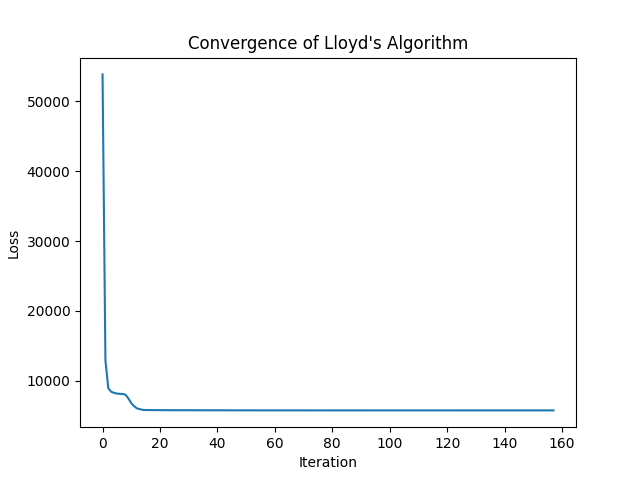
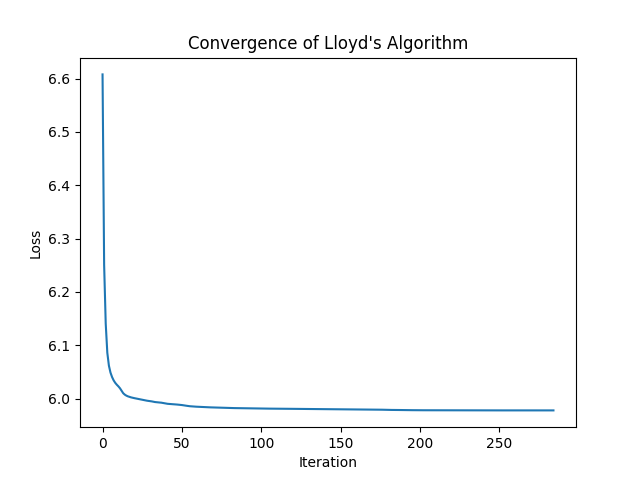
Added LSHLloyd.py for LSH. Changed main.py (added standardscalar, structured code).

diff --git a/LSHLloyd.py b/LSHLloyd.py
@@ -1,0 +1,137 @@
+import numpy as np
+import time
+from sklearn.metrics import pairwise_distances
+from KMeans import KMeans
+from tqdm import tqdm
+
+class LloydsAlgorithmLSH(KMeans):
+    def __init__(self, k, data, true_labels, num_hash_tables=2, num_hashes_per_table=3, bucket_size=1.0, max_iter=100, debug=False):
+        super().__init__(k, data, true_labels, max_iter)
+        self.distances = None
+        self.converged = False
+        self.time = 0
+        self.num_distance_calculations = 0
+        self.num_hash_tables = num_hash_tables
+        self.num_hashes_per_table = num_hashes_per_table
+        self.bucket_size = bucket_size
+        self.hash_tables = self._generate_hash_tables()
+        self.hash_buckets = self._hash_data()
+        self.centroid_hash_buckets = [None] * self.num_hash_tables
+        self.debug = debug
+
+    def _generate_hash_functions(self):
+        hash_functions = []
+        for _ in range(self.num_hashes_per_table):
+            a = np.random.normal(size=self.data.shape[1])
+            b = np.random.uniform(0, self.bucket_size)
+            hash_functions.append((a, b))
+        return hash_functions
+
+    def _generate_hash_tables(self):
+        hash_tables = []
+        for _ in range(self.num_hash_tables):
+            hash_tables.append(self._generate_hash_functions())
+        return hash_tables
+
+    def _hash_point(self, point, hash_functions):
+        hash_values = []
+        for a, b in hash_functions:
+            hash_value = np.floor((np.dot(point, a) + b) / self.bucket_size)
+            hash_values.append(hash_value)
+        return tuple(hash_values)
+
+    def _hash_data(self):
+        hash_buckets = [{} for _ in range(self.num_hash_tables)]
+        for i, point in enumerate(self.data):
+            for j, hash_functions in enumerate(self.hash_tables):
+                hash_values = self._hash_point(point, hash_functions)
+                if hash_values not in hash_buckets[j]:
+                    hash_buckets[j][hash_values] = []
+                hash_buckets[j][hash_values].append(i)
+        return hash_buckets
+
+    def _hash_centroids(self):
+        self.centroid_hash_buckets = [{} for _ in range(self.num_hash_tables)]
+        for j, hash_functions in enumerate(self.hash_tables):
+            for i, centroid in enumerate(self.centroids):
+                hash_values = self._hash_point(centroid, hash_functions)
+                if hash_values not in self.centroid_hash_buckets[j]:
+                    self.centroid_hash_buckets[j][hash_values] = []
+                self.centroid_hash_buckets[j][hash_values].append(i)
+
+    def initialize_centroids(self):
+        return self.data[:self.k]
+
+    def update_centroids(self):
+        for i in range(self.k):
+            if len(self.clusters[i]) > 0:
+                self.centroids[i] = np.mean(self.clusters[i], axis=0)
+            else:
+                # Randomly reinitialize centroid if cluster is empty
+                self.centroids[i] = self.data[np.random.choice(self.data.shape[0])]
+                if(self.debug):
+                    print(f"Cluster {i} is empty. Reinitializing centroid to {self.centroids[i]}")
+
+    def assign_clusters(self):
+        temp_clusters = self.clusters
+        self.clusters = {k: [] for k in range(self.k)}
+        assigned_points = set()
+
+        # First assign points from hash buckets
+        for j in range(self.num_hash_tables):
+            for bucket, centroids in self.centroid_hash_buckets[j].items():
+                if bucket in self.hash_buckets[j]:
+                    for idx in self.hash_buckets[j][bucket]:
+                        if idx not in assigned_points:
+                            cluster = centroids[0]
+                            self.labels[idx] = int(cluster)
+                            self.clusters[cluster].append(self.data[idx])
+                            assigned_points.add(idx)
+        if self.debug:
+            print(f"Assigned points from hash buckets: {len(assigned_points)} out of {len(self.data)}")
+
+        # Handle remaining points by distance
+        remaining_points = list(set(range(self.data.shape[0])) - assigned_points)
+        if remaining_points:
+            self.distances = pairwise_distances(self.data[remaining_points], self.centroids)
+            for i, idx in enumerate(remaining_points):
+                cluster = np.argmin(self.distances[i])
+                self.labels[idx] = int(cluster)
+                self.clusters[cluster].append(self.data[idx])
+                assigned_points.add(idx)
+        if self.debug:
+            print(f"Total assigned points after handling remaining buckets: {len(assigned_points)}")
+
+        if self.iterations > 1:
+            return self.convergence_check(temp_clusters), len(assigned_points)
+        else:
+            return False, len(assigned_points)
+
+
+    def fit(self):
+        start = time.time()
+        for _ in tqdm(range(self.max_iter)):
+            self._hash_centroids()
+            self.converged, num_assignments = self.assign_clusters()
+            if self.converged:
+                print('Converged after {} iterations'.format(self.iterations))
+                break
+            self.update_centroids()
+            self.losses.append(self.compute_loss())
+            self.iterations += 1
+            self.num_distance_calculations += (self.data.shape[0] - num_assignments) * self.k
+        self.NMI = self._NMI()
+        self.time = time.time() - start
+
+    def compute_loss(self):
+        loss = 0
+        for i in range(self.k):
+            if len(self.clusters[i]) > 0:
+                loss += np.sum(pairwise_distances(self.clusters[i], [self.centroids[i]]))
+        return loss / self.data.shape[0]
+
+    def convergence_check(self, temp_clusters):
+        for i in range(self.k):
+            if not np.array_equal(temp_clusters[i], self.clusters[i]):
+                return False
+        return True

diff --git a/main.py b/main.py
@@ -9,27 +9,35 @@ from sklearn.cluster import KMeans
 from sklearn.metrics import normalized_mutual_info_score
 
 from LloydsAlgorithm import LloydsAlgorithm
+from LSHLloyd import LloydsAlgorithmLSH
 
 if __name__ == '__main__':
     os.environ['OMP_NUM_THREADS'] = '1'
 
     data = pd.read_csv('bio_train.csv', header=None)
     true_labels = data[0].tolist()
-    data = data.drop(columns=0).to_numpy()
+    data = data.drop(columns=[0,1,2]).to_numpy()
     num_clusters = len(set(true_labels))
+    print(data.shape)
+    print(num_clusters)
 
-    kmeans_sklearn = KMeans(n_clusters=num_clusters, init=data[:num_clusters], max_iter=1000)
-    pred_labels = kmeans_sklearn.fit_predict(data)
+    scaler = StandardScaler()
+    data = scaler.fit_transform(data)
+
+    print("---------------SKLEARN---------------")
+    kmeans_sklearn = KMeans(n_clusters=num_clusters, init=data.copy()[:num_clusters], max_iter=1000)
+    pred_labels = kmeans_sklearn.fit_predict(data.copy())
     print('NMI: {}'.format(normalized_mutual_info_score(true_labels, pred_labels)))
 
     # Lloyds Algorithm
+    print("---------------LLOYD ALGORITHM---------------")
     NMI = []
     losses = []
     num_distance_calculations = []
     runtimes = []
     num_iterations = []
     for _ in range(1):
-        lloyds = LloydsAlgorithm(num_clusters, data, true_labels)
+        lloyds = LloydsAlgorithm(num_clusters, data.copy(), true_labels, max_iter=1000)
         lloyds.fit()
         NMI.append(lloyds.NMI)
         losses.append(lloyds.losses)
@@ -53,4 +61,41 @@ if __name__ == '__main__':
         plt.ylabel('Loss')
         plt.title('Convergence of Lloyd\'s Algorithm')
     plt.savefig('lloyds_algorithm_convergence.png')
-    plt.show()
+    plt.close()
+    #plt.show()
+
+
+    # # Lloyds Algorithm with LSH
+    # print("---------------LLOYD ALGORITHM WITH LSH---------------")
+    # NMI_lsh = []
+    # losses_lsh = []
+    # num_distance_calculations_lsh = []
+    # runtimes_lsh = []
+    # num_iterations_lsh = []
+    # for _ in range(1):
+    #     lloyds_lsh = LloydsAlgorithmLSH(num_clusters, data.copy(), true_labels, num_hash_tables=3, num_hashes_per_table=3, bucket_size=4.0, max_iter=1000, debug=True)
+    #     lloyds_lsh.fit()
+    #     NMI_lsh.append(lloyds_lsh.NMI)
+    #     losses_lsh.append(lloyds_lsh.losses)
+    #     num_distance_calculations_lsh.append(lloyds_lsh.num_distance_calculations)
+    #     runtimes_lsh.append(lloyds_lsh.time)
+    #     num_iterations_lsh.append(lloyds_lsh.iterations)
+    # print('Average NMI: {}'.format(np.mean(NMI_lsh)))
+    # print('Average number of distance calculations: {}'.format(np.mean(num_distance_calculations_lsh)))
+    # print('Average runtime: {}'.format(np.mean(runtimes_lsh)))
+    # print('Average number of iterations: {}'.format(np.mean(num_iterations_lsh)))
+
+    # with open('lloyds_algorithm_lsh_results.txt', 'w') as f:
+    #     f.write('Average NMI: {}\n'.format(np.mean(NMI_lsh)))
+    #     f.write('Average number of distance calculations: {}\n'.format(np.mean(num_distance_calculations_lsh)))
+    #     f.write('Average runtime: {}\n'.format(np.mean(runtimes_lsh)))
+    #     f.write('Average number of iterations: {}\n'.format(np.mean(num_iterations_lsh)))
+
+    # for loss_lsh in losses_lsh:
+    #     plt.plot(loss_lsh)
+    #     plt.xlabel('Iteration')
+    #     plt.ylabel('Loss')
+    #     plt.title('Convergence of Lloyd\'s Algorithm with LSH')
+    # plt.savefig('lloyds_algorithm_lsh_convergence.png')
+    # plt.close()
+    # #plt.show()

diff --git a/LSH.py b/LSH.py
@@ -1,18 +1,72 @@
+import time
+import numpy as np
+from sklearn.metrics import pairwise_distances
 from KMeans import KMeans
+from tqdm import tqdm
 
 
-class LSH(KMeans):
-    def __init__(self, k, data, true_labels):
+
+
+class LloydsAlgorithmLSH(KMeans):
+    def __init__(self, k, data, true_labels, num_hash_tables=5, num_hash_functions=10, w=1.0):
         super().__init__(k, data, true_labels)
+        self.distances = None
+        self.converged = False
+        self.time = 0
+        self.num_distance_calculations = 0
+        self.lsh = LSH(data, num_hash_tables, num_hash_functions, w)
+        self.lsh.build_hash_tables()
 
     def fit(self):
         pass
 
     def initialize_centroids(self):
-        return None
+        return self.data[np.random.choice(self.data.shape[0], self.k, replace=False)]
 
     def update_centroids(self):
-        return None
+        for i in range(self.k):
+            self.centroids[i] = np.mean(self.clusters[i], axis=0)
 
     def assign_clusters(self):
         return None
+
+
+class LSH:
+    def __init__(self, data, num_hash_tables, num_hash_functions, w=1.0):
+        self.data = data
+        self.num_hash_tables = num_hash_tables
+        self.num_hash_functions = num_hash_functions
+        self.w = w
+        self.hash_tables = [{} for _ in range(num_hash_tables)]
+        self.hash_functions = self.generate_hash_functions()
+
+    def generate_hash_functions(self):
+        hash_functions = []
+        for _ in range(self.num_hash_tables):
+            table_functions = []
+            for _ in range(self.num_hash_functions):
+                a = np.random.randn(self.data.shape[1])
+                b = np.random.uniform(0, self.w)
+                table_functions.append((a, b))
+            hash_functions.append(table_functions)
+        return hash_functions
+
+    def hash(self, vector, hash_functions):
+        hash_value = tuple(int((np.dot(vector, a) + b) / self.w) for a, b in hash_functions)
+        return hash_value
+
+    def build_hash_tables(self):
+        for idx, vector in enumerate(self.data):
+            for table_idx, hash_functions in enumerate(self.hash_functions):
+                hash_value = self.hash(vector, hash_functions)
+                if hash_value not in self.hash_tables[table_idx]:
+                    self.hash_tables[table_idx][hash_value] = []
+                self.hash_tables[table_idx][hash_value].append(idx)
+
+    def query(self, vector):
+        candidates = set()
+        for table_idx, hash_functions in enumerate(self.hash_functions):
+            hash_value = self.hash(vector, hash_functions)
+            if hash_value in self.hash_tables[table_idx]:
+                candidates.update(self.hash_tables[table_idx][hash_value])
+        return list(candidates)

diff --git a/LloydsAlgorithm.py b/LloydsAlgorithm.py
@@ -7,8 +7,8 @@ from tqdm import tqdm
 
 
 class LloydsAlgorithm(KMeans):
-    def __init__(self, k, data, true_labels):
-        super().__init__(k, data, true_labels)
+    def __init__(self, k, data, true_labels, max_iter):
+        super().__init__(k, data, true_labels, max_iter)
         self.distances = None
         self.converged = False
         self.time = 0
@@ -42,7 +42,7 @@ class LloydsAlgorithm(KMeans):
 
     def fit(self):
         start = time.time()
-        for _ in tqdm(range(1000)):
+        for _ in tqdm(range(self.max_iter)):
             self.converged = self.assign_clusters()
             if self.converged:
                 print('Converged after {} iterations'.format(self.iterations))

diff --git a/KMeans.py b/KMeans.py
@@ -5,7 +5,7 @@ from tqdm import trange, tqdm
 
 
 class KMeans:
-    def __init__(self, k, data, true_labels):
+    def __init__(self, k, data, true_labels, max_iter):
         self.k = k
         self.data = data
         self.iterations = 0
@@ -15,6 +15,7 @@ class KMeans:
         self.clusters = dict()
         self.centroids = self.initialize_centroids()
         self.labels = np.zeros(self.data.shape[0])
+        self.max_iter = max_iter
 
     def fit(self):
         raise NotImplementedError
